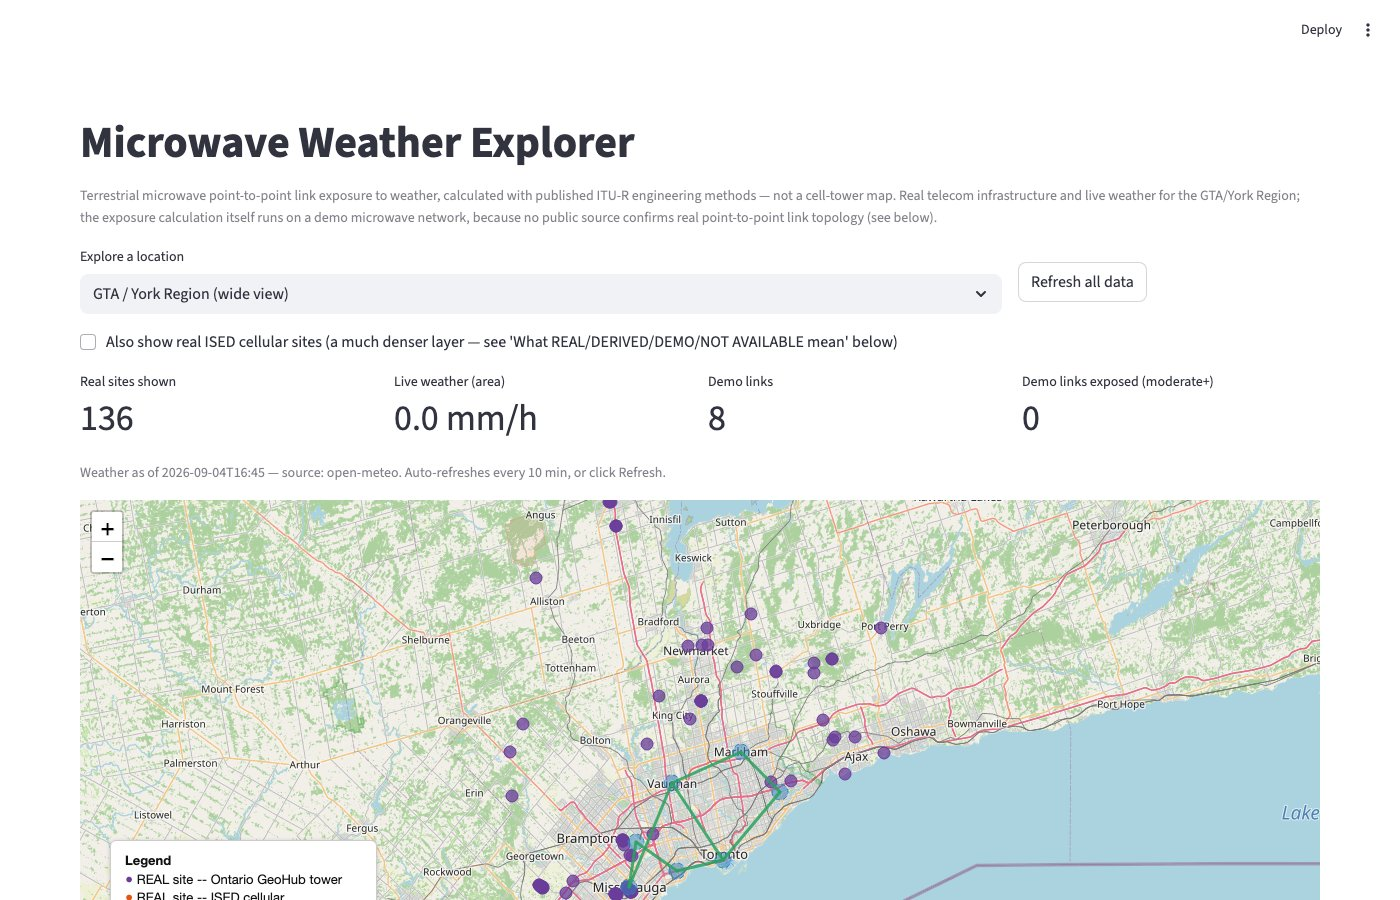
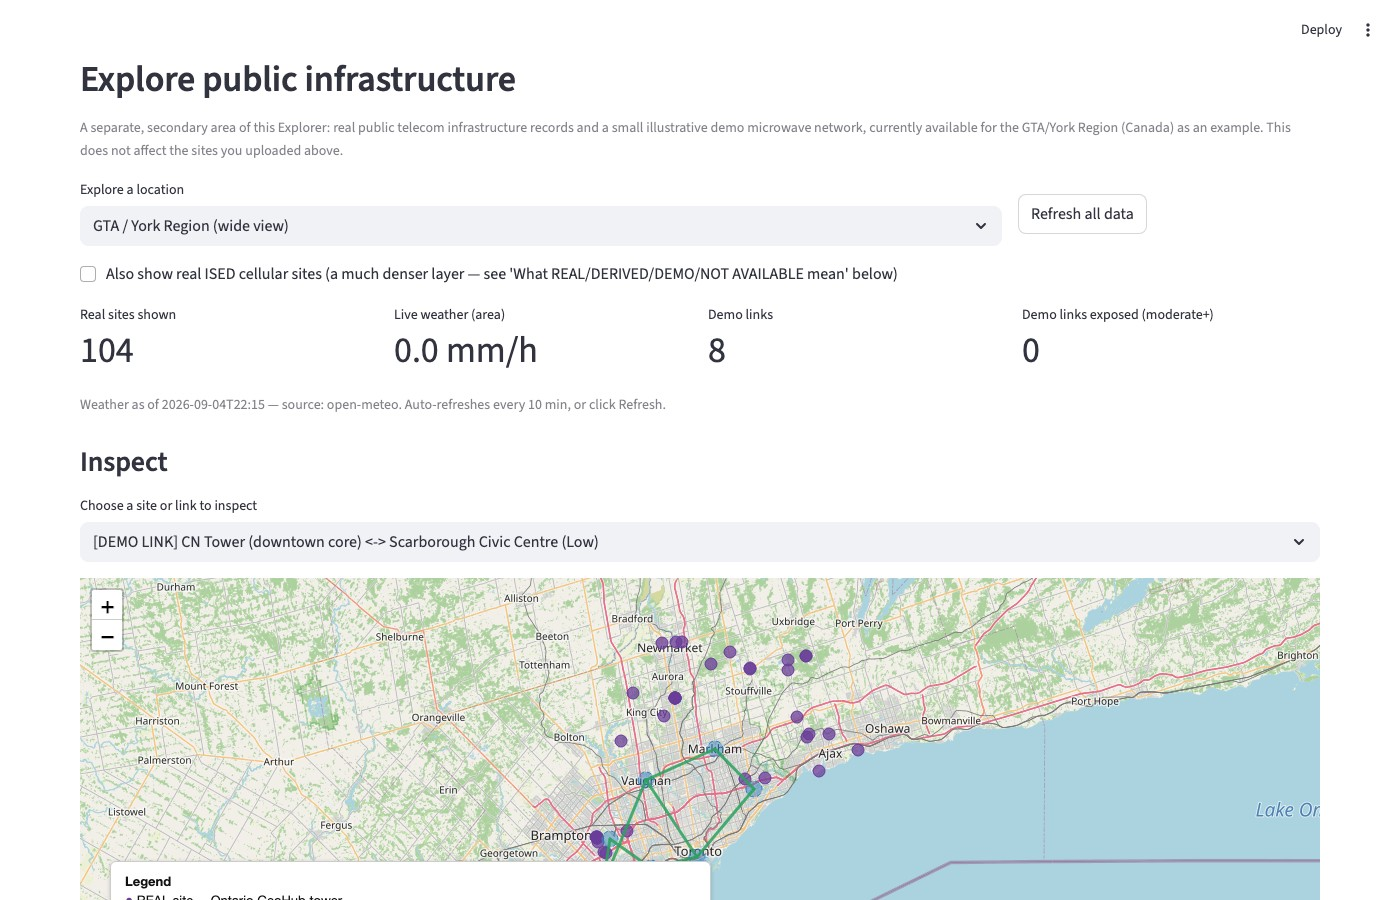
Update default map view to Lake Ontario/Toronto waterfront (was Lake Simcoe); refresh explorer-overview screenshot to match current UI
Recentered the Explorer's default "GTA / York Region (wide view)" location
from (43.80, -79.45, half_width 0.55) to (43.64, -79.38, half_width 0.45)
-- Lake Ontario/Toronto waterfront instead of the Lake Simcoe-adjacent
area. Verified live GeoHub tower density stays adequate (104 real towers
vs. the previous 136; density drops sharply much closer to the lakefront
core, e.g. only 11 within a tight box centered on it, so this half_width
keeps a good margin rather than chasing a dramatic zoom-in). No dataset,
query bbox construction, or engineering logic touched -- display/demo
default only.

Replaced docs/images/explorer-overview.jpg in place (old Lake
Simcoe-adjacent screenshot fully overwritten, not kept anywhere). The new
screenshot also reflects the current app UI, since the old one predated
the earlier My Sites redesign in this repo's history.

Bump to 0.1.2, patch-only, no functional change.

diff --git a/demo/locations.py b/demo/locations.py
@@ -29,7 +29,7 @@ class Location:
 
 
 LOCATIONS: list[Location] = [
-    Location("GTA / York Region (wide view)", 43.80, -79.45, 0.55),
+    Location("GTA / York Region (wide view)", 43.64, -79.38, 0.45),
     Location("Toronto", 43.6532, -79.3832, 0.13),
     Location("Newmarket", 44.0592, -79.4613, 0.10),
     Location("Markham", 43.8561, -79.3370, 0.10),

diff --git a/src/aei_mw_exposure/__init__.py b/src/aei_mw_exposure/__init__.py
@@ -56,7 +56,7 @@ from .representativeness import (
 )
 from .weather import SOURCE_SYNTHETIC, SOURCE_TEST_FIXTURE, WeatherObservation, WeatherProvider, peak_rain
 
-__version__ = "0.1.1"
+__version__ = "0.1.2"
 
 __all__ = [
     "__version__",

diff --git a/CHANGELOG.md b/CHANGELOG.md
@@ -3,6 +3,14 @@
 All notable changes to this project are recorded here. This project is
 published on PyPI: https://pypi.org/project/aei-microwave-link-exposure/.
 
+## [0.1.2] - 2026-09-04
+
+### Changed
+
+- Default Explorer map view recentered on Lake Ontario/Toronto waterfront
+  for clearer geographic context; refreshed screenshot to reflect current
+  UI (previous screenshot predated the My Sites redesign).
+
 ## [0.1.1] - 2026-09-04
 
 ### Fixed
